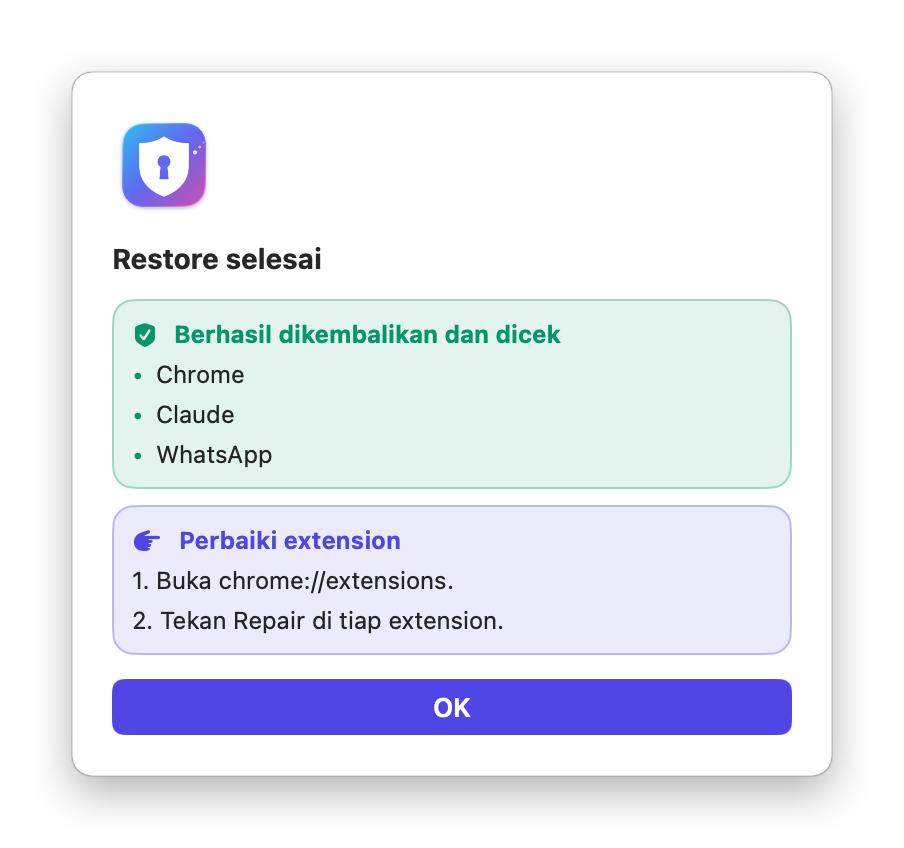
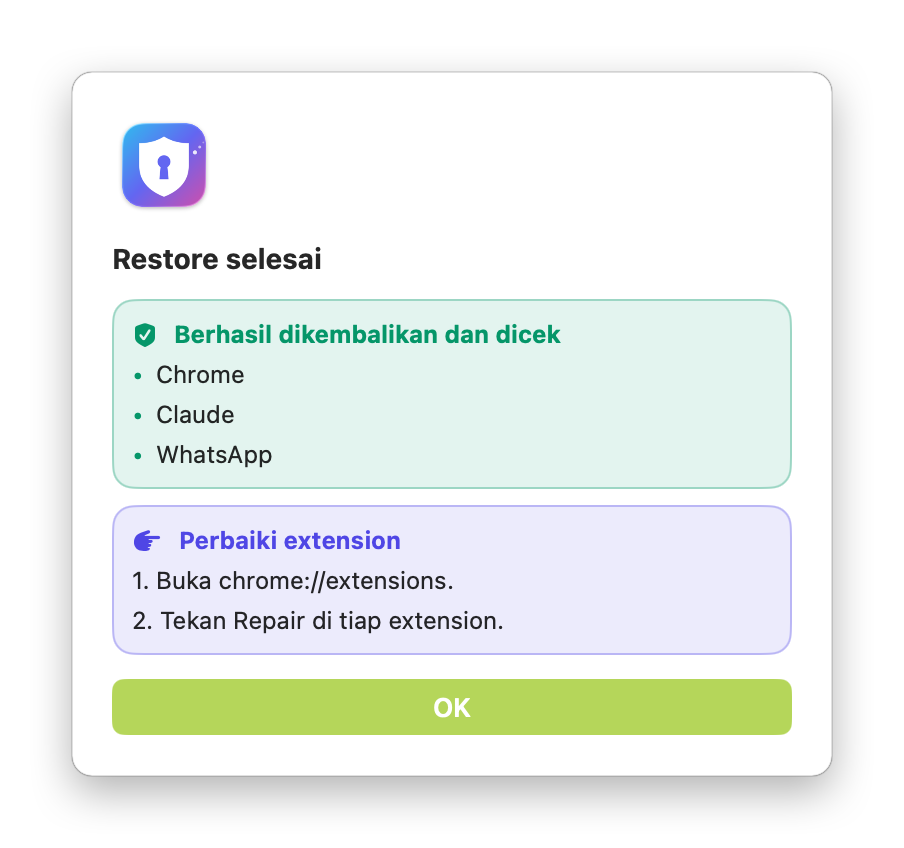
Amnesia v5.18.1 - 2026-10-07 21:44

Changed region(s): [[0.1239, 0.7972, 0.8982, 0.8892]]

diff --git a/app/Amnesia.swift b/app/Amnesia.swift
@@ -1457,8 +1457,8 @@ func alertWindow() -> NSWindow? {
 @MainActor
 func runAlert(_ a: NSAlert) -> NSApplication.ModalResponse {
     NSApp.activate(ignoringOtherApps: true)
-    // v5.18: tombol utama berwarna website (indigo, merah kalau berbahaya)
-    if let b = a.buttons.first { b.bezelColor = b.hasDestructiveAction ? Th.nsRed : Th.nsIndigo }
+    // v5.18.1: JANGAN set bezelColor di tombol NSAlert: di macOS 26 tombol utamanya jadi tidak terlihat.
+    // Tombol utama popup memakai warna aksen Mac (bawaan sistem).
     if Shots.on { return a.runModal() }
     // v5.13: jendela belum terbuka (hanya ikon menu bar) → buka dulu, supaya popup bisa menempel di sana
     if alertWindow() == nil, let open = Opener.open {
@@ -2283,12 +2283,6 @@ enum Th {
         NSColor(srgbRed: CGFloat((hex >> 16) & 0xFF) / 255, green: CGFloat((hex >> 8) & 0xFF) / 255,
                 blue: CGFloat(hex & 0xFF) / 255, alpha: a)
     }
-    /// versi NSColor (untuk tombol NSAlert)
-    static func nsDyn(_ dark: UInt32, _ light: UInt32) -> NSColor {
-        NSColor(name: nil) { ap in ap.bestMatch(from: [.darkAqua, .aqua]) == .darkAqua ? Th.ns(dark) : Th.ns(light) }
-    }
-    static let nsIndigo = nsDyn(0x6366F1, 0x4F46E5)
-    static let nsRed = nsDyn(0xEF4444, 0xDC2626)
     /// warna yang berganti sendiri: `dark` di mode gelap, `light` di mode terang
     static func dyn(_ dark: UInt32, _ light: UInt32, _ da: CGFloat = 1, _ la: CGFloat = 1) -> Color {
         Color(nsColor: NSColor(name: nil) { ap in
@@ -6475,7 +6469,7 @@ enum Shots {
                     }
                     Text(ok).font(.system(size: 13, weight: .semibold)).foregroundStyle(.white)
                         .frame(maxWidth: .infinity).padding(.vertical, 6)
-                        .background(RoundedRectangle(cornerRadius: 6).fill(Th.indigo))
+                        .background(RoundedRectangle(cornerRadius: 6).fill(Color.accentColor))
                 }
             }
             .padding(20)

diff --git a/CHANGELOG.md b/CHANGELOG.md
@@ -5,6 +5,11 @@
 Every change to Amnesia is written down here, newest first.
 You can see the version number in the app too (next to the title and at the bottom of the menu bar panel).
 
+## v5.18.1 — 2026-10-07
+
+### Fixed
+- **The main popup button was invisible** (for example Turn Off or Turn On Amnesia, only Cancel showed). v5.18 gave that button the indigo website color, and on macOS 26 that made it disappear. The main button is back and uses your Mac's accent color again, like before v5.18. The colored boxes inside popups stay in the website colors.
+
 ## v5.18 — 2026-10-07
 
 ### Changed

diff --git a/CHANGELOG.id.md b/CHANGELOG.id.md
@@ -5,6 +5,11 @@
 Semua perubahan Amnesia dicatat di sini. Versi terbaru ada di paling atas.
 Nomor versi juga terlihat di app (di samping judul dan di bawah menu bar).
 
+## v5.18.1 — 2026-10-07
+
+### Diperbaiki
+- **Tombol utama popup tidak terlihat** (misalnya Matikan atau Aktifkan Amnesia, hanya Batal yang muncul). Di v5.18 tombol itu diberi warna indigo website, dan di macOS 26 justru membuatnya hilang. Sekarang tombol utamanya muncul lagi dengan warna aksen Mac kamu, seperti sebelum v5.18. Kotak berwarna di dalam popup tetap memakai warna website.
+
 ## v5.18 — 2026-10-07
 
 ### Diubah
